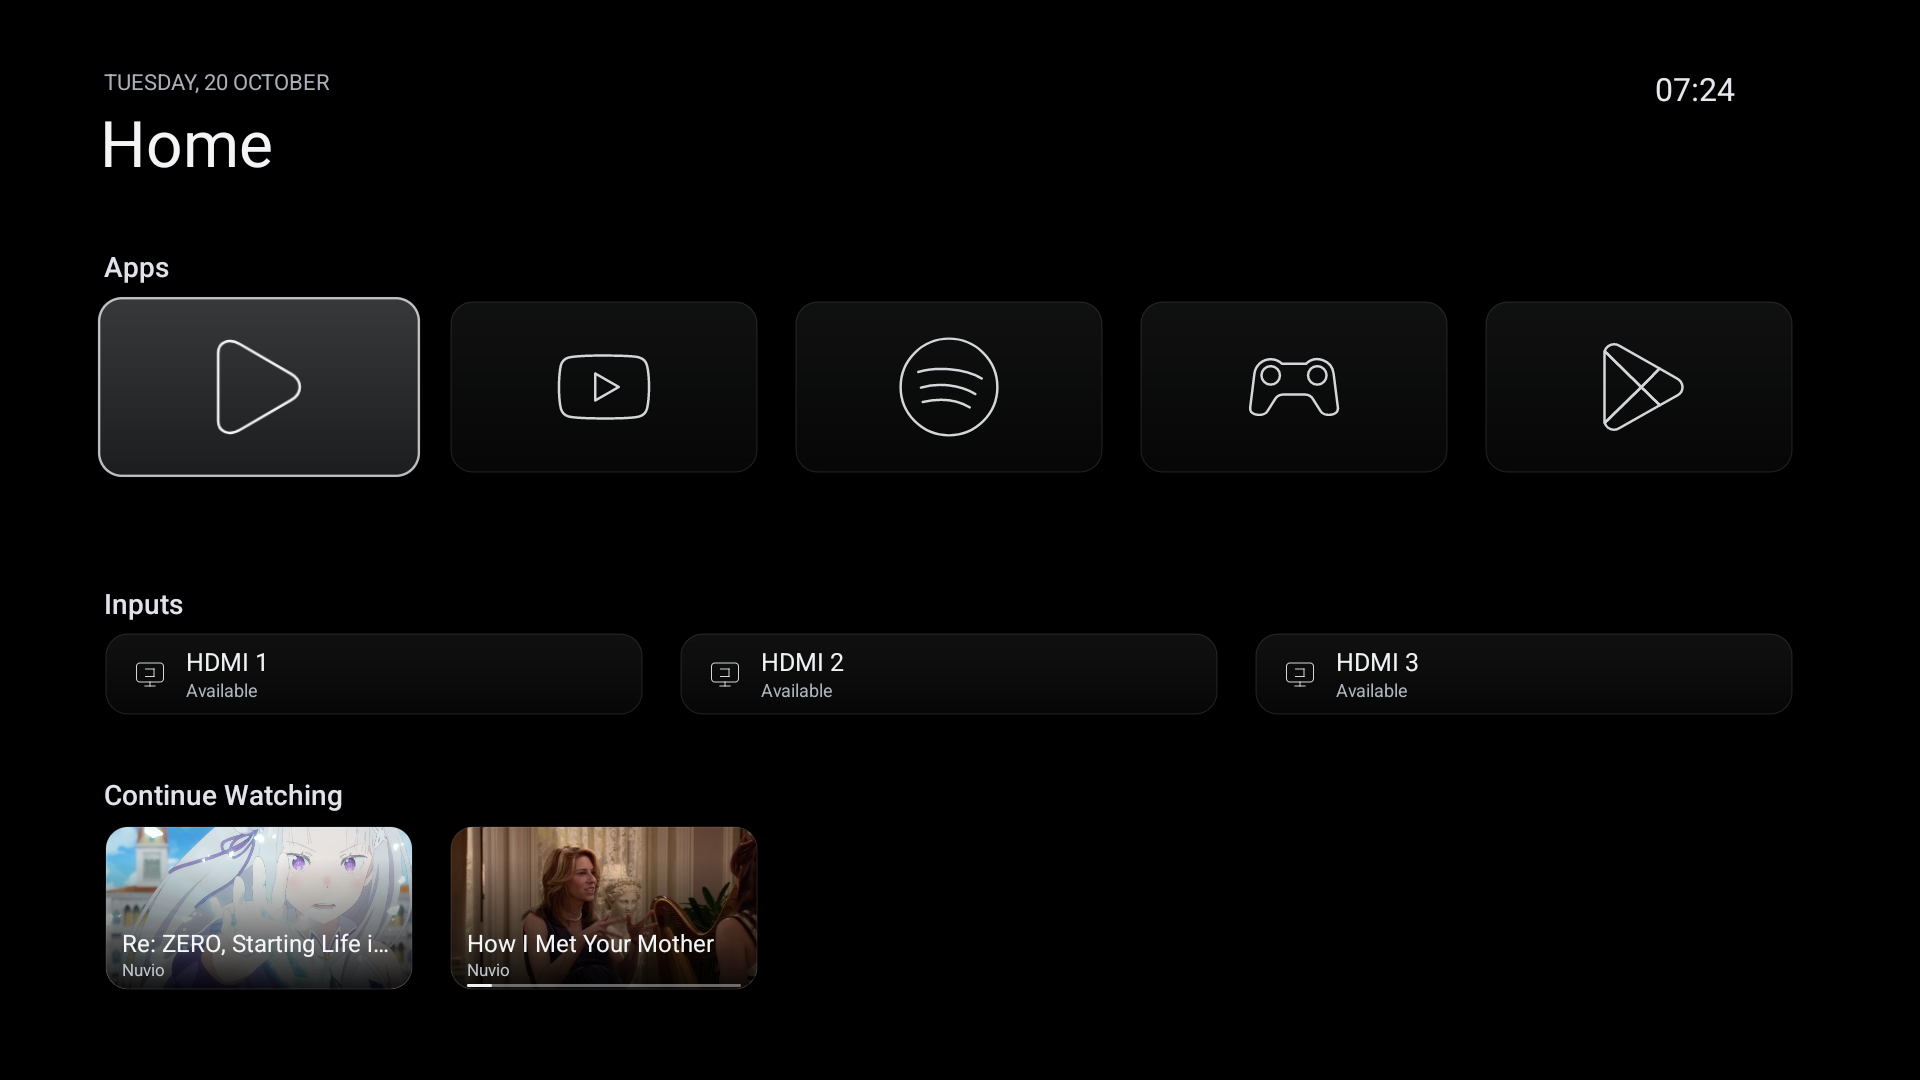
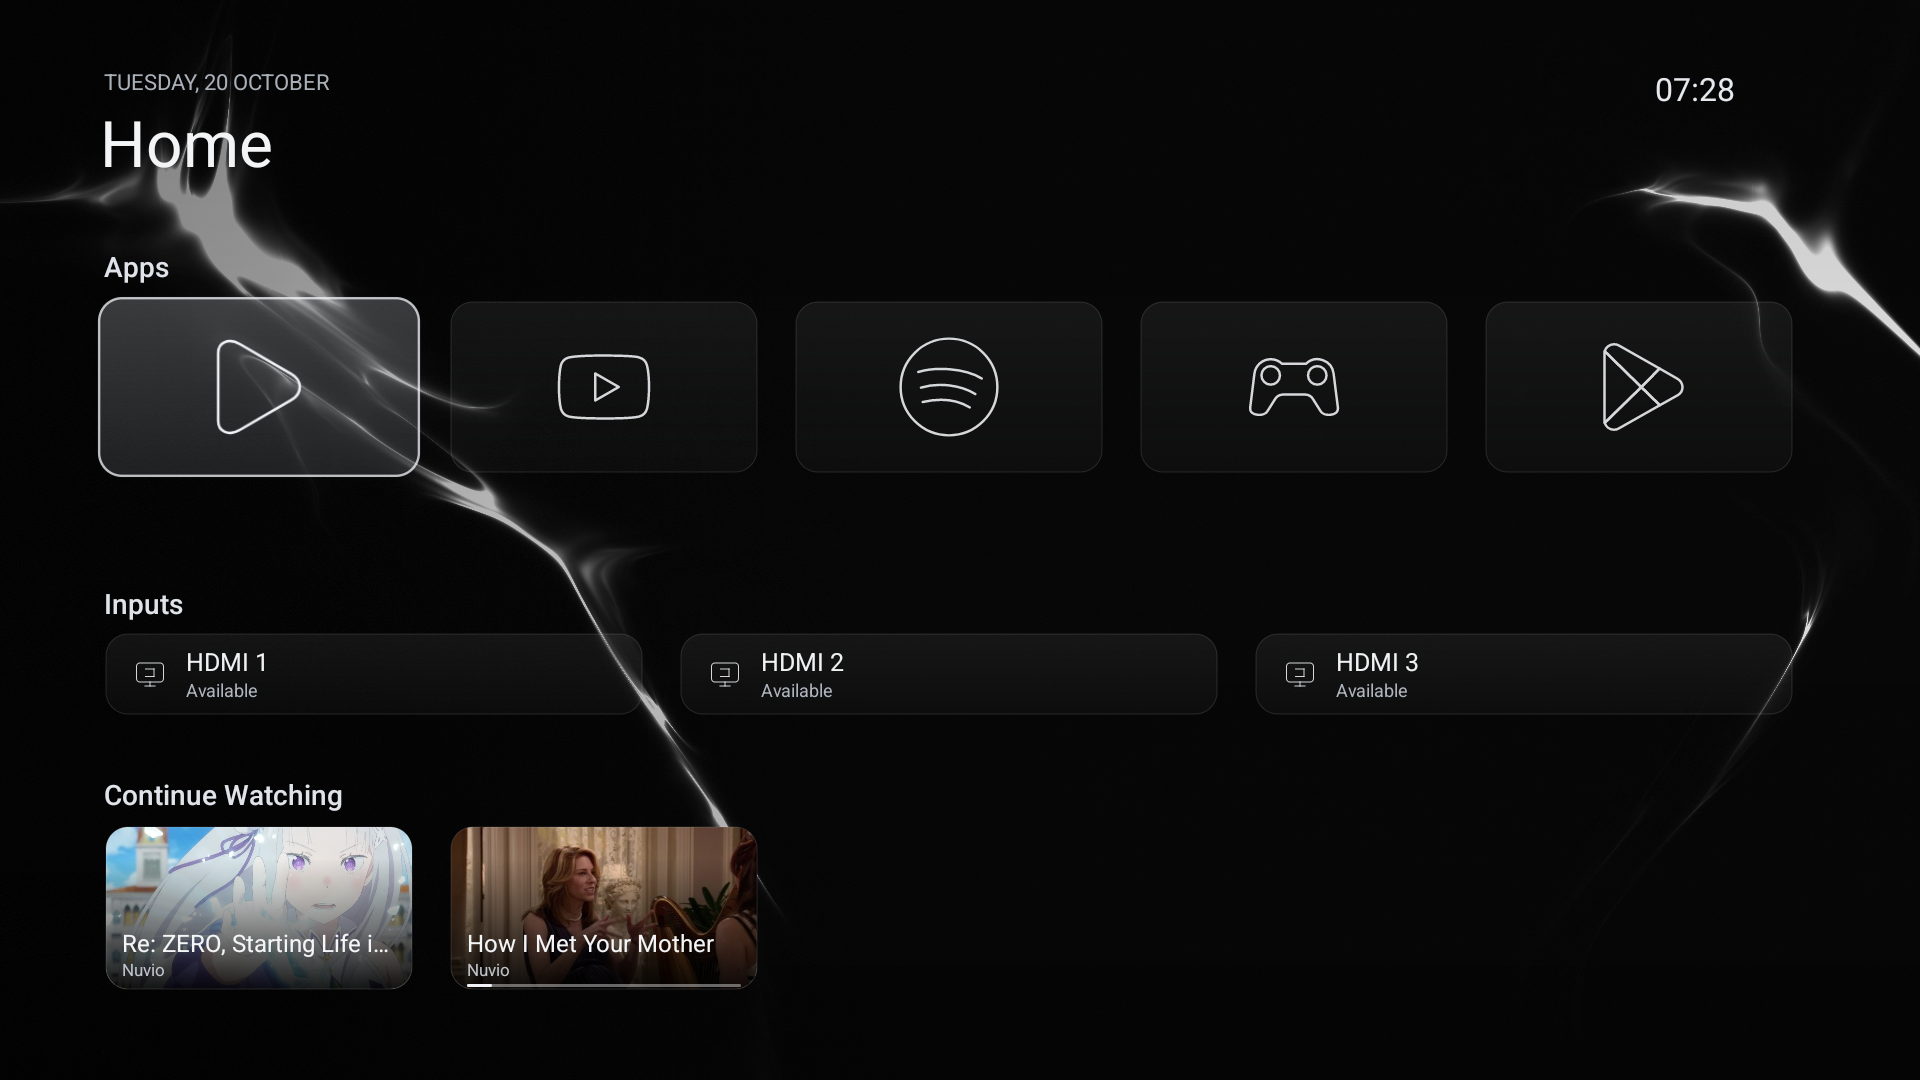
Cover wallpaper startup and refresh Home screenshot

diff --git a/launcher/app/src/main/java/dev/nuzair/home/VideoBackdrop.java b/launcher/app/src/main/java/dev/nuzair/home/VideoBackdrop.java
@@ -2,51 +2,72 @@ package dev.nuzair.home;
 
 import android.content.Context;
 import android.content.res.AssetFileDescriptor;
-import android.graphics.Color;
+import android.os.SystemClock;
+import android.widget.FrameLayout;
+import android.widget.ImageView;
 import android.media.MediaPlayer;
 import android.util.Log;
 import android.view.SurfaceHolder;
 import android.view.SurfaceView;
 
 /** Direct hardware video surface: no WebView, TextureView, GL shader or audio focus. */
-final class VideoBackdrop extends SurfaceView implements SurfaceHolder.Callback {
+final class VideoBackdrop extends FrameLayout implements SurfaceHolder.Callback {
     private MediaPlayer player;
     private boolean active;
-    private int position;
+    private final SurfaceView surface;
+    private final ImageView poster;
+    private long openedAt;
+    private long firstFrameMs = -1;
     VideoBackdrop(Context c) {
         super(c); setFocusable(false); setImportantForAccessibility(IMPORTANT_FOR_ACCESSIBILITY_NO);
-        getHolder().addCallback(this);
-        getHolder().setFixedSize(1920, 1080);
+        surface = new SurfaceView(c);
+        surface.setFocusable(false);
+        surface.getHolder().addCallback(this);
+        surface.getHolder().setFixedSize(1920, 1080);
+        addView(surface, new LayoutParams(-1, -1));
+        poster = new ImageView(c);
+        poster.setImageResource(R.drawable.neural_poster);
+        poster.setScaleType(ImageView.ScaleType.CENTER_CROP);
+        addView(poster, new LayoutParams(-1, -1));
     }
     void resumeVideo() { active = true; open(); }
     // Queried only by dumpsys for validation, never polled during playback.
     String describe() {
         if (player == null) return "released active="+active;
-        try { return "playing="+player.isPlaying()+" position="+player.getCurrentPosition()+" duration="+player.getDuration()+" metrics="+player.getMetrics(); }
+        try { return "poster="+(poster.getVisibility()==VISIBLE)+" firstFrameMs="+firstFrameMs+" playing="+player.isPlaying()+" position="+player.getCurrentPosition()+" duration="+player.getDuration()+" metrics="+player.getMetrics(); }
         catch (IllegalStateException e) { return "preparing active="+active; }
     }
     void pauseVideo() {
         active = false;
+        poster.setVisibility(VISIBLE);
         if (player != null) {
-            try { position = player.getCurrentPosition(); } catch (IllegalStateException ignored) {}
             player.release(); player = null;
         }
     }
     private void open() {
-        if (!active || player != null || !getHolder().getSurface().isValid()) return;
+        if (!active || player != null || !surface.getHolder().getSurface().isValid()) return;
+        poster.setVisibility(VISIBLE);
+        openedAt = SystemClock.elapsedRealtime(); firstFrameMs = -1;
         final MediaPlayer p = new MediaPlayer(); player = p;
         try (AssetFileDescriptor a = getResources().openRawResourceFd(R.raw.neural)) {
             p.setDataSource(a.getFileDescriptor(), a.getStartOffset(), a.getLength());
-            p.setDisplay(getHolder()); p.setVolume(0f, 0f); p.setLooping(true);
+            p.setDisplay(surface.getHolder()); p.setVolume(0f, 0f); p.setLooping(true);
             p.setVideoScalingMode(MediaPlayer.VIDEO_SCALING_MODE_SCALE_TO_FIT_WITH_CROPPING);
             p.setOnPreparedListener(mp -> {
                 if (player != mp || !active) return;
-                if (position > 0) mp.seekTo(position, MediaPlayer.SEEK_CLOSEST);
                 mp.start(); Log.i("NuzairHome", "Wallpaper playing");
+            });
+            p.setOnInfoListener((mp, what, extra) -> {
+                if (what == MediaPlayer.MEDIA_INFO_VIDEO_RENDERING_START && player == mp && active) {
+                    firstFrameMs = SystemClock.elapsedRealtime() - openedAt;
+                    poster.setVisibility(INVISIBLE);
+                    Log.i("NuzairHome", "Wallpaper first frame in " + firstFrameMs + " ms");
+                }
+                return false;
             });
             p.setOnErrorListener((mp, what, extra) -> {
                 Log.w("NuzairHome", "Wallpaper error " + what + "/" + extra);
-                if (player == mp) { mp.release(); player = null; }
+                if (player == mp) { poster.setVisibility(VISIBLE); mp.release(); player = null; }
                 return true;
             });
             p.prepareAsync();

diff --git a/docs/validation.md b/docs/validation.md
@@ -34,3 +34,11 @@ These measurements predate repository cleanup; native application code and activ
 ## Remaining limits
 
 Launch/routing checks do not prove app authentication, sustained playback, Cast playback, audio quality, HDMI signal quality, HDR/ALLM/CEC or long gaming sessions. Those require the actual TV and connected devices. Native settings components and remote codes may differ on another firmware. Residual banding and icon-edge quality remain visual judgments; native 4K UI rendering and perfect panel output are not claimed.
+
+## 0.1.4 wallpaper return (2026-10-20)
+
+A density-independent first-frame still now covers decoder preparation, and playback starts at the beginning without a resume seek. The original Main10 video and picture controls are unchanged. The decoder still releases on pause; the poster adds one 1080p image allocation (approximately 8 MiB uncompressed RGBA).
+
+The signed APK built and passed signature verification, then updated the existing installation while retaining app data. Three Settings-to-Home checks confirmed decoder release outside Home, poster dismissal on the first-frame notification, and hardware HEVC playback after return. Measured preparation-to-first-frame times were **442, 295 and 326 ms**; these are not total remote-button-to-screen latencies or a controlled before/after comparison. A Nuvio-to-Home check also confirmed release and resumed playback, with a 413 ms first-frame notification. Each short playback sample reported zero dropped frames. A direct 1080p screenshot now includes the video background and is used in the README.
+
+The initial automated attempt was invalid because the system screensaver was foreground; the results above were collected after dismissing it. Physical confirmation of a seamless still-to-video transition remains necessary.

diff --git a/README.md b/README.md
@@ -2,16 +2,16 @@
 
 ### Note: I (codex) made this for myself for my own tv spec. You are free to use it as a reference, but do not expect to provide support or merge PR's
 
-CustomTV 0.1.3: a lightweight native Android TV launcher with a tvOS-inspired monochrome interface, an animated neural background and remote-friendly navigation.
+CustomTV 0.1.4: a lightweight native Android TV launcher with a tvOS-inspired monochrome interface, an animated neural background and remote-friendly navigation.
 
 ![CustomTV Home with app shortcuts, HDMI inputs and Continue Watching](docs/images/customtv-home.png)
 
-*Captured on the TV at 1920×1080. The video background appears black in this ADB screenshot.*
+*Captured directly on the TV at 1920×1080, including the neural video background.*
 
 - Icon-only shortcuts for Nuvio, SmartTube, Spotify, Steam Link and Play Store. Newly installed user TV apps appear automatically.
 - Fixed Apps, HDMI Inputs and Continue Watching rows, plus a clock. No vertical Home scrolling.
 - Minimal sidebar for Inputs, Wi-Fi, Bluetooth, Picture, Sound, Appearance and full TV settings.
-- Hardware-decoded 1080p30 wallpaper. The decoder releases when Home pauses; the idle Home view keeps the clock and video.
+- Hardware-decoded 1080p30 wallpaper. A matching still covers decoder startup when returning Home. The decoder releases when Home pauses; the idle Home view keeps the clock and video.
 - An optional accessibility service handles Home, gear and the observed Xiaomi remote shortcuts. It cannot read screen contents or perform gestures.
 
 The launcher does not require Projectivy or root. It preserves the stock launcher, native settings and hardware services. Tested on Xiaomi MiTV-MZTU0 (`river`), Android 14; native settings components and branded remote codes are firmware-specific.

diff --git a/docs/assets.md b/docs/assets.md
@@ -34,3 +34,17 @@ Outputs stay in ignored `launcher/build/wallpaper/`. The renderer refuses to ove
 The shader computes at high precision, packs each 16-bit grayscale value into two channels for lossless readback, converts sRGB through linear light to BT.709, and adds static fine dither. Encoding uses Main10 HEVC at 1080p30, a 24-second loop and no audio. This avoids the old 8-bit browser-image intermediary and incorrectly tagged transfer curve.
 
 Review a new render before replacing `launcher/app/src/main/res/raw/neural.mp4`. Update the expected SHA-256 in `launcher/scripts/build.py` and the provenance documentation at the same time. Different GPU/encoder versions may produce different bytes. The active file's digest is a verification pin, not a claim of universally bit-identical rendering.
+
+## Startup still
+
+The launcher overlays the first video frame while preparing playback, then removes it on Android's first-frame notification. Playback restarts at the beginning instead of seeking after preparation. This preserves decoder release outside Home while avoiding a blank startup background.
+
+Regenerate the committed, density-independent poster after changing the video (FFmpeg with zscale required):
+
+```sh
+ffmpeg -i launcher/app/src/main/res/raw/neural.mp4 -frames:v 1 \
+  -vf 'zscale=transfer=iec61966-2-1:matrix=gbr:range=full,format=gbrp,format=rgb24' \
+  -y launcher/app/src/main/res/drawable-nodpi/neural_poster.png
+```
+
+The conversion maps the video's limited-range BT.709 signal back to sRGB for the Android image view. The active MP4 itself is unchanged.

diff --git a/launcher/THIRD_PARTY.md b/launcher/THIRD_PARTY.md
@@ -12,6 +12,8 @@ The GLSL source in `assets/wallpaper/` was extracted from the owner's [nuzair.de
 
[1 lines of base64/hex data omitted]
 
+The startup still, `app/src/main/res/drawable-nodpi/neural_poster.png`, is extracted from the first frame of that same video with BT.709-to-sRGB conversion; see [asset instructions](../docs/assets.md).
+
 ## Reference and platform
 
 [Gathin23/tv-vibehack](https://github.com/Gathin23/tv-vibehack/tree/d7a2efcd84bf628ae131072f70620a03ad069383), commit `d7a2efcd84bf628ae131072f70620a03ad069383`, was studied for native launcher/Home-routing approaches. Its MIT notice is retained as `REFERENCE-LICENSE.txt`. No upstream APK or Outfit font is bundled. CustomTV's layout, data reader, video lifecycle and narrow HOME override were implemented locally.
